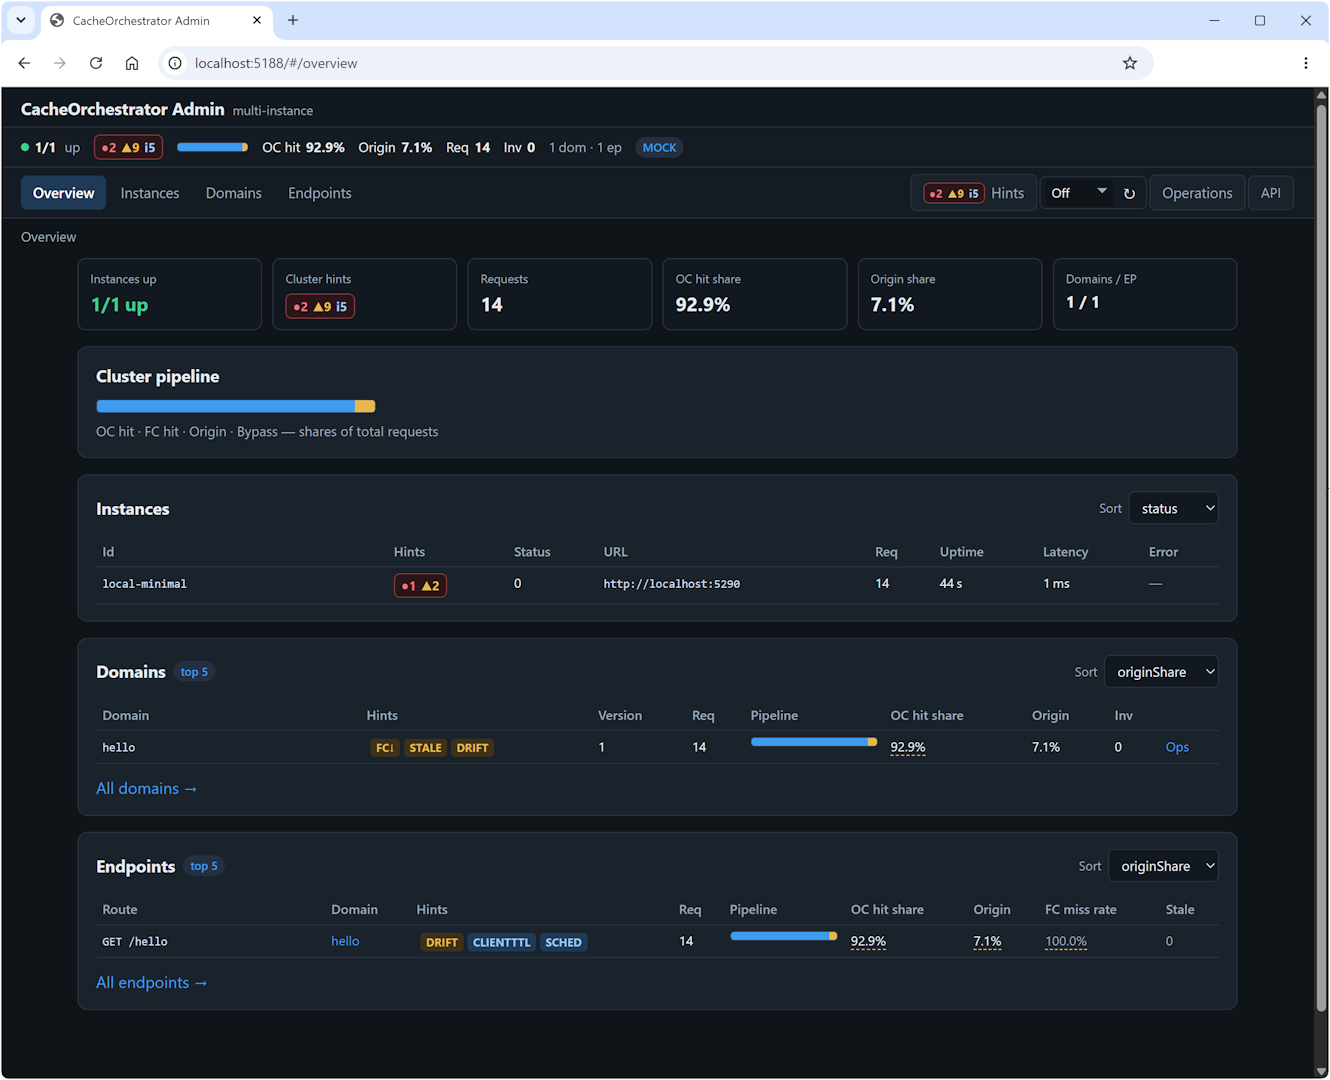
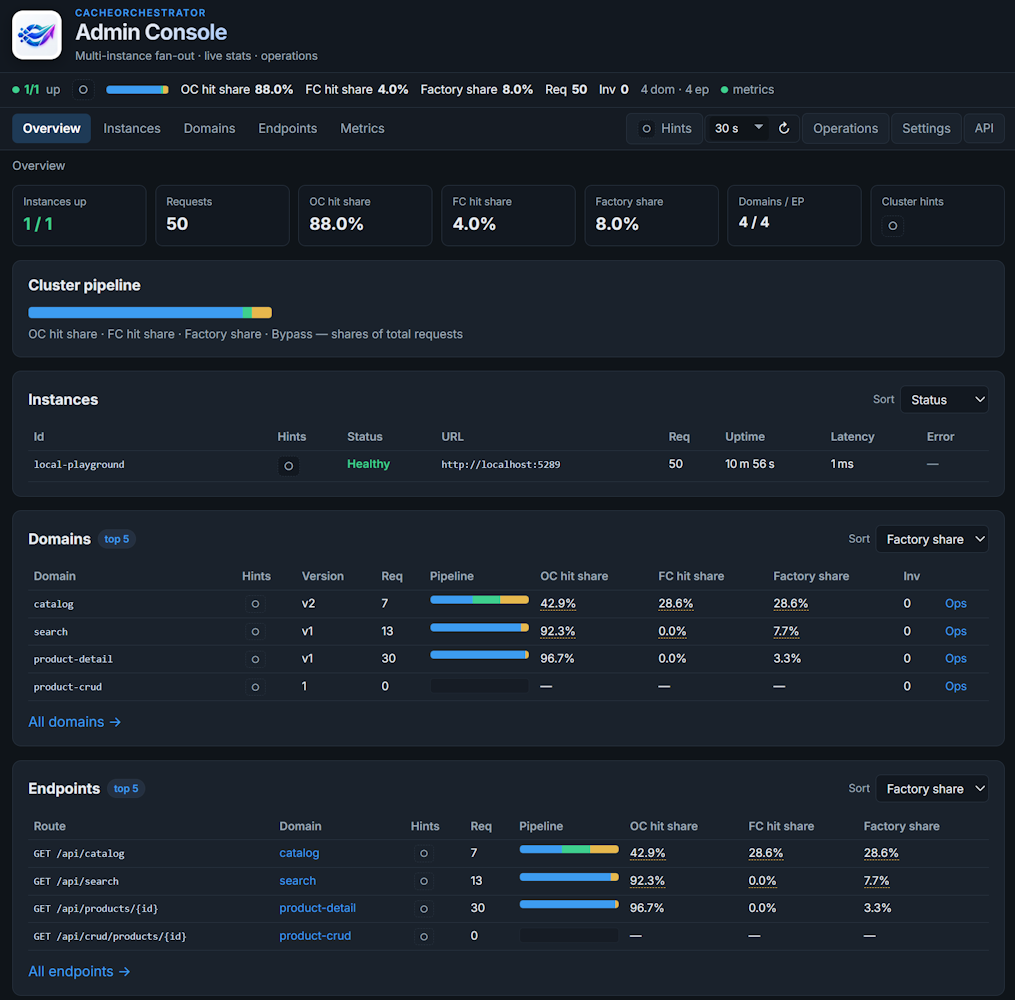
Admin app and playground sample polished

diff --git a/samples/CacheOrchestrator.Sample/wwwroot/app.js b/samples/CacheOrchestrator.Sample/wwwroot/app.js
@@ -115,7 +115,7 @@ function buildFetchInit(method = 'GET', { disableBrowserCache = true, price } = 
     /** @type {RequestInit} */
     const init = {
         method,
-        // Same idea as DevTools “Disable cache”: no-store bypasses the browser HTTP cache.
+        // Fetch cache mode only — not HTTP Cache-Control: no-store (server OC/FC still run).
         cache: disableBrowserCache ? 'no-store' : 'default',
         headers: {},
     };
@@ -158,11 +158,21 @@ function cacheTag(xcache) {
 
     const isOcHit = /output=hit/i.test(xcache);
     const isFcHit = /data=hit/i.test(xcache);
+    const isFcStale = /data=stale/i.test(xcache);
 
     if (isOcHit) return `<span class="tag hit">OC-HIT</span>`;
-    if (isFcHit) return `<span class="tag miss">OC-MISS</span><span class="tag hit" style="margin-left:4px">FC-HIT</span>`;
-
-    return `<span class="tag miss">MISS</span>`;
+    if (isFcHit) {
+        return `<span class="tag miss">OC-MISS</span>`
+            + `<span class="tag hit" style="margin-left:4px">FC-HIT</span>`;
+    }
+    if (isFcStale) {
+        return `<span class="tag miss">OC-MISS</span>`
+            + `<span class="tag phase-hold" style="margin-left:4px">FC-STALE</span>`;
+    }
+    // Both layers missed — factory path (not a “hit”; avoid FACTORY-HIT wording).
+    return `<span class="tag miss">OC-MISS</span>`
+        + `<span class="tag miss" style="margin-left:4px">FC-MISS</span>`
+        + `<span class="tag factory" style="margin-left:4px" title="Fusion factory ran (GetOrSet miss path)">FACTORY</span>`;
 }
 
 function escHtml(s) {
@@ -195,7 +205,6 @@ async function runRequest(url, init) {
 
     const ms = Math.round(performance.now() - started);
     const body = await res.text();
-    const hitId = res.headers.get('x-demo-hit-id') || '';
 
     let isBrowserCache = false;
     await new Promise(r => requestAnimationFrame(() => r()));
@@ -222,11 +231,10 @@ async function runRequest(url, init) {
         body,
         phase,
         status: res.status,
-        hitId,
     });
 }
 
-/** Header checkbox — default true (matches DevTools “Disable cache”). */
+/** Header checkbox — default true: bypass browser HTTP cache; server OC/FC unchanged. */
 function isBrowserCacheDisabled() {
     const el = document.getElementById('disableBrowserCache');
     // If the control is missing, prefer server-visible fetches.
@@ -254,7 +262,7 @@ function logInvalidateResult(title, body) {
     logHintEl.textContent = `${logEl.children.length} request(s)`;
 }
 
-function appendLog({ isBrowserCache, xcache, cc, etag, demoMs, ms, url, body, phase, status, hitId, error }) {
+function appendLog({ isBrowserCache, xcache, cc, etag, demoMs, ms, url, body, phase, status, error }) {
     const entry = document.createElement('div');
     entry.className = 'entry';
 
@@ -276,7 +284,6 @@ function appendLog({ isBrowserCache, xcache, cc, etag, demoMs, ms, url, body, ph
 <div class="headers">cache-control: ${escHtml(cc || '—')}
 etag: ${escHtml(etag || '—')}
 x-cache: ${escHtml(xcache || '—')}
-x-demo-hit-id: ${escHtml(hitId || '—')}
 
 body: ${escHtml((body || '').slice(0, 600))}</div>`;
     }
@@ -335,7 +342,7 @@ async function saveSettings() {
         await loadEndpoints();
         appendLog({
             error: null, xcache: '', cc: '', etag: '', demoMs: '', ms: 0,
-            url: 'appsettings.json', body: '', phase: '', status: 200, hitId: '',
+            url: 'appsettings.json', body: '', phase: '', status: 200,
             isBrowserCache: false,
         });
         logEl.firstChild.querySelector('.meta').innerHTML =

diff --git a/samples/CacheOrchestrator.Sample/wwwroot/styles.css b/samples/CacheOrchestrator.Sample/wwwroot/styles.css
@@ -512,6 +512,7 @@ select:focus, input[type="text"]:focus { border-color: var(--accent); }
 .tag.hit       { color: var(--green);  border-color: var(--green-dim);  background: rgba(61,214,140,.07); }
 .tag.browser   { color: var(--accent); border-color: color-mix(in srgb, var(--accent) 40%, var(--border)); background: var(--accent-glow); }
 .tag.miss      { color: var(--yellow); border-color: var(--yellow-dim); background: rgba(245,200,66,.07); }
+.tag.factory   { color: var(--red);    border-color: color-mix(in srgb, var(--red) 45%, var(--border)); background: rgba(255,107,107,.1); }
 .tag.phase-calm  { color: var(--green);  border-color: var(--green-dim);  }
 .tag.phase-apr   { color: var(--yellow); border-color: var(--yellow-dim); }
 .tag.phase-hold  { color: var(--orange); border-color: var(--orange-dim); }
@@ -598,6 +599,41 @@ select:focus, input[type="text"]:focus { border-color: var(--accent); }
     gap: 10px;
     padding: 14px 20px;
     border-top: 1px solid var(--border);
+}
+
+/* ── Footer ── */
+.app-footer {
+    display: flex;
+    justify-content: center;
+    align-items: center;
+    padding: 1.5rem 0 0.5rem;
+    margin-top: 0.5rem;
+}
+
+.footer-github {
+    display: inline-flex;
+    align-items: center;
+    gap: 0.45rem;
+    color: var(--muted);
+    text-decoration: none;
+    font-weight: 600;
+    font-size: 0.9rem;
+    padding: 0.4rem 0.85rem;
+    border-radius: 999px;
+    border: 1px solid var(--border);
+    background: var(--panel);
+    transition: color 0.15s, border-color 0.15s, background 0.15s;
+}
+
+.footer-github:hover {
+    color: var(--text);
+    border-color: color-mix(in srgb, var(--accent) 40%, var(--border));
+}
+
+.footer-github-icon {
+    display: block;
+    flex-shrink: 0;
+    opacity: 0.9;
 }
 
 /* ── Responsive ── */

diff --git a/samples/CacheOrchestrator.Sample/wwwroot/index.html b/samples/CacheOrchestrator.Sample/wwwroot/index.html
@@ -36,7 +36,7 @@
                 </div>
             </div>
             <div class="header-meta">
-                <label class="check header-check" title="Like DevTools Network → Disable cache. When checked, Fetch uses cache: no-store (both panels).">
+                <label class="check header-check" title="Disable browser HTTP cache to see server OC/FC hits or misses.">
                     <input type="checkbox" id="disableBrowserCache" checked />
                     Disable browser HTTP cache
                 </label>
@@ -126,6 +126,15 @@
             </div>
             <div id="log" class="log"></div>
         </section>
+
+        <footer class="app-footer">
+            <a class="footer-github" href="https://github.com/amarinsek/CacheOrchestrator" target="_blank" rel="noopener noreferrer" title="CacheOrchestrator on GitHub">
+                <svg class="footer-github-icon" width="18" height="18" viewBox="0 0 16 16" aria-hidden="true" focusable="false">
+                    <path fill="currentColor" d="M8 0C3.58 0 0 3.58 0 8c0 3.54 2.29 6.53 5.47 7.59.4.07.55-.17.55-.38 0-.19-.01-.82-.01-1.49-2.01.37-2.53-.49-2.69-.94-.09-.23-.48-.94-.82-1.13-.28-.15-.68-.52-.01-.53.63-.01 1.08.58 1.23.82.72 1.21 1.87.87 2.33.66.07-.52.28-.87.51-1.07-1.78-.2-3.64-.89-3.64-3.95 0-.87.31-1.59.82-2.15-.08-.2-.36-1.02.08-2.12 0 0 .67-.21 2.2.82.64-.18 1.32-.27 2-.27s1.36.09 2 .27c1.53-1.04 2.2-.82 2.2-.82.44 1.1.16 1.92.08 2.12.51.56.82 1.27.82 2.15 0 3.07-1.87 3.75-3.65 3.95.29.25.54.73.54 1.48 0 1.07-.01 1.93-.01 2.2 0 .21.15.46.55.38A8.01 8.01 0 0 0 16 8c0-4.42-3.58-8-8-8"/>
+                </svg>
+                <span>CacheOrchestrator</span>
+            </a>
+        </footer>
     </div>
 
     <!-- JSON Editor Modal -->

diff --git a/src/CacheOrchestrator.Admin/wwwroot/index.html b/src/CacheOrchestrator.Admin/wwwroot/index.html
@@ -70,7 +70,13 @@
   </main>
 
   <footer class="app-footer muted">
-    Local Admin must be enabled on each app. Configure <code>CacheAdmin:Instances</code>.
+    <p class="footer-note">Local Admin must be enabled on each app. Configure <code>CacheAdmin:Instances</code>.</p>
+    <a class="footer-github" href="https://github.com/amarinsek/CacheOrchestrator" target="_blank" rel="noopener noreferrer" title="CacheOrchestrator on GitHub">
+      <svg class="footer-github-icon" width="18" height="18" viewBox="0 0 16 16" aria-hidden="true" focusable="false">
+        <path fill="currentColor" d="M8 0C3.58 0 0 3.58 0 8c0 3.54 2.29 6.53 5.47 7.59.4.07.55-.17.55-.38 0-.19-.01-.82-.01-1.49-2.01.37-2.53-.49-2.69-.94-.09-.23-.48-.94-.82-1.13-.28-.15-.68-.52-.01-.53.63-.01 1.08.58 1.23.82.72 1.21 1.87.87 2.33.66.07-.52.28-.87.51-1.07-1.78-.2-3.64-.89-3.64-3.95 0-.87.31-1.59.82-2.15-.08-.2-.36-1.02.08-2.12 0 0 .67-.21 2.2.82.64-.18 1.32-.27 2-.27s1.36.09 2 .27c1.53-1.04 2.2-.82 2.2-.82.44 1.1.16 1.92.08 2.12.51.56.82 1.27.82 2.15 0 3.07-1.87 3.75-3.65 3.95.29.25.54.73.54 1.48 0 1.07-.01 1.93-.01 2.2 0 .21.15.46.55.38A8.01 8.01 0 0 0 16 8c0-4.42-3.58-8-8-8"/>
+      </svg>
+      <span>CacheOrchestrator</span>
+    </a>
   </footer>
 
   <!-- ES modules: see wwwroot/js/app.js for the module graph -->

diff --git a/src/CacheOrchestrator.Admin/wwwroot/styles.css b/src/CacheOrchestrator.Admin/wwwroot/styles.css
@@ -434,8 +434,45 @@ a.btn-secondary:hover {
 
 .app-footer {
   text-align: center;
-  padding: 1rem 1.25rem 2rem;
+  padding: 1.25rem 1.25rem 2rem;
   font-size: 0.85rem;
+  display: flex;
+  flex-direction: column;
+  align-items: center;
+  gap: 0.65rem;
+}
+
+.app-footer .footer-note {
+  margin: 0;
+  max-width: 36rem;
+  line-height: 1.4;
+}
+
+.footer-github {
+  display: inline-flex;
+  align-items: center;
+  gap: 0.45rem;
+  color: var(--muted);
+  text-decoration: none;
+  font-weight: 600;
+  font-size: 0.9rem;
+  padding: 0.35rem 0.75rem;
+  border-radius: 999px;
+  border: 1px solid var(--border);
+  background: color-mix(in srgb, var(--card, #1a222c) 80%, transparent);
+  transition: color 0.15s, border-color 0.15s, background 0.15s;
+}
+
+.footer-github:hover {
+  color: var(--text);
+  border-color: color-mix(in srgb, var(--accent) 40%, var(--border));
+  text-decoration: none;
+}
+
+.footer-github-icon {
+  display: block;
+  flex-shrink: 0;
+  opacity: 0.9;
 }
 
 /* —— cards / tables —— */

diff --git a/src/CacheOrchestrator.Admin/wwwroot/js/hints.js b/src/CacheOrchestrator.Admin/wwwroot/js/hints.js
@@ -41,6 +41,9 @@ export function hintBadges(hints) {
 /** Map rule codes to short row labels. Unknown codes use severity prefix. */
 export function shortHint(h) {
   const map = {
+    "high-factory-share": "Factory↑",
+    "critical-factory-share": "Factory‼",
+    // Obsolete codes (pre-rename) still map if disabled.local or custom packs use them
     "high-origin-share": "Factory↑",
     "critical-origin-share": "Factory‼",
     "elevated-stale": "Stale",
@@ -55,6 +58,7 @@ export function shortHint(h) {
     "runtime-override": "Overlay",
     "fusion-hard-lt-soft": "TTL",
     "instance-oc-hit-spread": "Drift",
+    "instance-factory-spread": "Drift",
     "instance-origin-spread": "Drift",
   };
   return map[h.code] || (h.severity || "Hint").slice(0, 4);

diff --git a/src/CacheOrchestrator.Admin/Services/RecommendationHints.cs b/src/CacheOrchestrator.Admin/Services/RecommendationHints.cs
@@ -54,7 +54,7 @@ public static class RecommendationHints
             if (domain.Fc.FactoryShare is double factory && factory >= FactoryShareWarning)
             {
                 string severity = factory >= FactoryShareCritical ? "Critical" : "Warning";
-                string code = factory >= FactoryShareCritical ? "critical-origin-share" : "high-origin-share";
+                string code = factory >= FactoryShareCritical ? "critical-factory-share" : "high-factory-share";
                 hints.Add(Hint(
                     severity,
                     code,
@@ -67,7 +67,7 @@ public static class RecommendationHints
                 hints.Add(Hint(
                     "Warning",
                     "elevated-stale",
-                    $"Stale serves {(stale * 100):0.#}% of requests — fail-safe is covering factory failures. Inspect timeouts and origin health."));
+                    $"Stale serves {(stale * 100):0.#}% of requests — fail-safe is covering factory failures. Inspect timeouts and factory/backend health."));
             }
 
             if (domain.Invalidations >= 10
@@ -155,7 +155,7 @@ public static class RecommendationHints
             if (ep.Fc.FactoryShare is double factory && factory >= FactoryShareWarning)
             {
                 string severity = factory >= FactoryShareCritical ? "Critical" : "Warning";
-                string code = factory >= FactoryShareCritical ? "critical-origin-share" : "high-origin-share";
+                string code = factory >= FactoryShareCritical ? "critical-factory-share" : "high-factory-share";
                 hints.Add(Hint(
                     severity,
                     code,
@@ -174,7 +174,7 @@ public static class RecommendationHints
             {
                 hints.Add(Hint(
                     "Warning",
-                    "instance-origin-spread",
+                    "instance-factory-spread",
                     $"Factory share differs across instances (stdev {(sd * 100):0.#}%)."));
             }
         }

diff --git a/tests/CacheOrchestrator.UnitTests/Admin/RecommendationHintsTests.cs b/tests/CacheOrchestrator.UnitTests/Admin/RecommendationHintsTests.cs
@@ -48,7 +48,7 @@ public class RecommendationHintsTests
         };
 
         IReadOnlyList<AdminHintDto> hints = RecommendationHints.ForEndpoint(ep);
-        hints.Should().Contain(h => h.Code == "high-origin-share" && h.Severity == "Warning");
+        hints.Should().Contain(h => h.Code == "high-factory-share" && h.Severity == "Warning");
     }
 
     [Fact]
@@ -71,7 +71,7 @@ public class RecommendationHintsTests
         };
 
         IReadOnlyList<AdminHintDto> hints = RecommendationHints.ForDomain(domain);
-        hints.Should().Contain(h => h.Code == "critical-origin-share" && h.Severity == "Critical");
+        hints.Should().Contain(h => h.Code == "critical-factory-share" && h.Severity == "Critical");
     }
 
     [Fact]

diff --git a/samples/CacheOrchestrator.Sample/Program.cs b/samples/CacheOrchestrator.Sample/Program.cs
@@ -19,12 +19,6 @@ builder.Services.AddOpenTelemetry()
 
 var app = builder.Build();
 
-app.Use(async (ctx, next) =>
-{
-    ctx.Response.Headers["X-Demo-Hit-Id"] = Guid.NewGuid().ToString("N");
-    await next();
-});
-
 app.UseDefaultFiles();
 app.UseStaticFiles();
 app.UseCacheOrchestrator();

diff --git a/samples/CacheOrchestrator.Sample/README.md b/samples/CacheOrchestrator.Sample/README.md
@@ -12,7 +12,7 @@ dotnet run --project samples/CacheOrchestrator.Sample
 
 Open the printed URL (http://localhost:5289 by default).
 
-**Disable browser HTTP cache** (header, next to **appsettings.json**, **on by default**) matches DevTools Network → Disable cache: Fetch uses `cache: 'no-store'`. Uncheck only when you want client `max-age` / BROWSER-CACHE badges.
+**Disable browser HTTP cache** (header, next to **appsettings.json**, **on by default**) sets Fetch **`cache: 'no-store'`** so the browser always calls the app and you see **server** OC/FC hits. It does **not** send HTTP `Cache-Control: no-store` and does **not** turn off Output/Fusion on the server. Uncheck only to demo client `max-age` / BROWSER-CACHE.
 
 This playground writes `appsettings.json` from the browser. That is for this sample only.
 
@@ -25,12 +25,13 @@ This playground writes `appsettings.json` from the browser. That is for this sam
   - **calm** — far from the cutover; client `max-age` is at its maximum
   - **approaching** — `max-age` falls toward the floor
   - **hold** — the scheduled time has passed; `max-age` stays at the floor
-- **Disable browser HTTP cache** (header, default on) — like DevTools; uncheck to demo browser HTTP cache.
+- **Disable browser HTTP cache** (header, default on) — bypass browser cache only; uncheck to demo BROWSER-CACHE.
 - **Badges** on a response:
   - **BROWSER-CACHE** — client cache served the response (only when **Disable browser HTTP cache** is off)
   - **OC-HIT** — Output Cache served the HTTP response
-  - **OC-MISS FC-HIT** — the handler ran; FusionCache had the object
-  - **MISS** — both layers missed; the factory ran
+  - **OC-MISS FC-HIT** — handler ran; FusionCache had the object
+  - **OC-MISS FC-STALE** — fail-safe stale from Fusion
+  - **OC-MISS FC-MISS FACTORY** — both layers missed; Fusion factory ran (not a “hit”)
 - **Extra query params** (optional): e.g. `page=2` usually creates a **different** cache key. Tracking params such as `utm_source=demo` are omitted from keys (same entry as without them) — see [cache-keys.md](../../docs/cache-keys.md).
 
 ## CRUD (entity invalidation)
@@ -40,7 +41,7 @@ In the playground, open the **Entity invalidation (CRUD)** panel (not the domain
 - **Invalidate entity** — purge OC/FC for `products/42` only (in-memory price unchanged).
 - **Update price (PUT)** — enter a price, write store + entity invalidate → next Fetch shows that price.
 
-Suggested UI flow: Fetch → Fetch twice (OC-HIT) → Invalidate entity → Fetch (MISS, same price) → set Price → Update price → Fetch (MISS, new price).
+Suggested UI flow: Fetch → Fetch twice (OC-HIT) → Invalidate entity → Fetch (FACTORY, same price) → set Price → Update price → Fetch (FACTORY, new price).
 
 ```bash
 curl -i http://localhost:5289/api/crud/products/42

diff --git a/CHANGELOG.md b/CHANGELOG.md
@@ -30,6 +30,7 @@ and this project adheres to [Semantic Versioning](https://semver.org/spec/v2.0.0
 ### Changed
 
 - **Admin App targets `net10.0` only** (no longer multi-targets net8.0). Monitored instances may still be net8 or net10 (HTTP fan-out). Admin unit tests compile and run under net10 only; library unit tests remain net8 + net10
+- Hint product codes renamed for terminology: `high-factory-share` / `critical-factory-share` / `instance-factory-spread` (replacing `*-origin-*` codes in `core-hints.json` and imperative `RecommendationHints`)
 - Admin Local API / stats DTOs: prefer **`factoryShare`** (request share of factory runs); **`originShare`** remains as an obsolete synonym for wire compatibility (same value). Declarative hint paths accept both; product packs use `factoryShare`. Admin UI labels Factory; tooltips explain “also known as origin”
 - **Admin App SPA soft refresh** — auto-refresh and header refresh repaint without a full “Loading…” flash; concurrent soft runs coalesce; GET `/api/overview` is deduped in-flight; Metrics charts soft-refresh by patching KPIs and SVG path data in place (no full chart remount / flicker)
 - Admin App instance health: KPI / header show error styling unless **all** configured instances are healthy; JSON enums as strings (`JsonStringEnumConverter`) for SPA status handling

diff --git a/docs/admin-hints.md b/docs/admin-hints.md
@@ -89,7 +89,7 @@ Shipped in `core-hints.json` (domain and/or endpoint scope as applicable):
 
 | Codes | Theme |
 |-------|--------|
-| `high-origin-share`, `critical-origin-share` | Factory share (API: `factoryShare` / obsolete `originShare`) |
+| `high-factory-share`, `critical-factory-share` | Factory share (API: `factoryShare`) |
 | `elevated-stale` | Fail-safe stale share |
 | `factory-failures`, `critical-factory-failures` | Factory error rate |
 | `frequent-invalidations` | Invalidation vs traffic |
@@ -97,7 +97,7 @@ Shipped in `core-hints.json` (domain and/or endpoint scope as applicable):
 | `client-ttl-gt-output`, `schedule-flat` | Client TTL / ramp |
 | `fusion-hard-lt-soft` | Fusion soft vs hard |
 | `runtime-override` | Runtime Version/TTL overlay |
-| `instance-oc-hit-spread`, `instance-origin-spread` | Cross-instance factory / OC drift |
+| `instance-oc-hit-spread`, `instance-factory-spread` | Cross-instance OC / factory share drift |
 
 Exact thresholds and messages: open **`core-hints.json`** or Settings → click a row.
 
